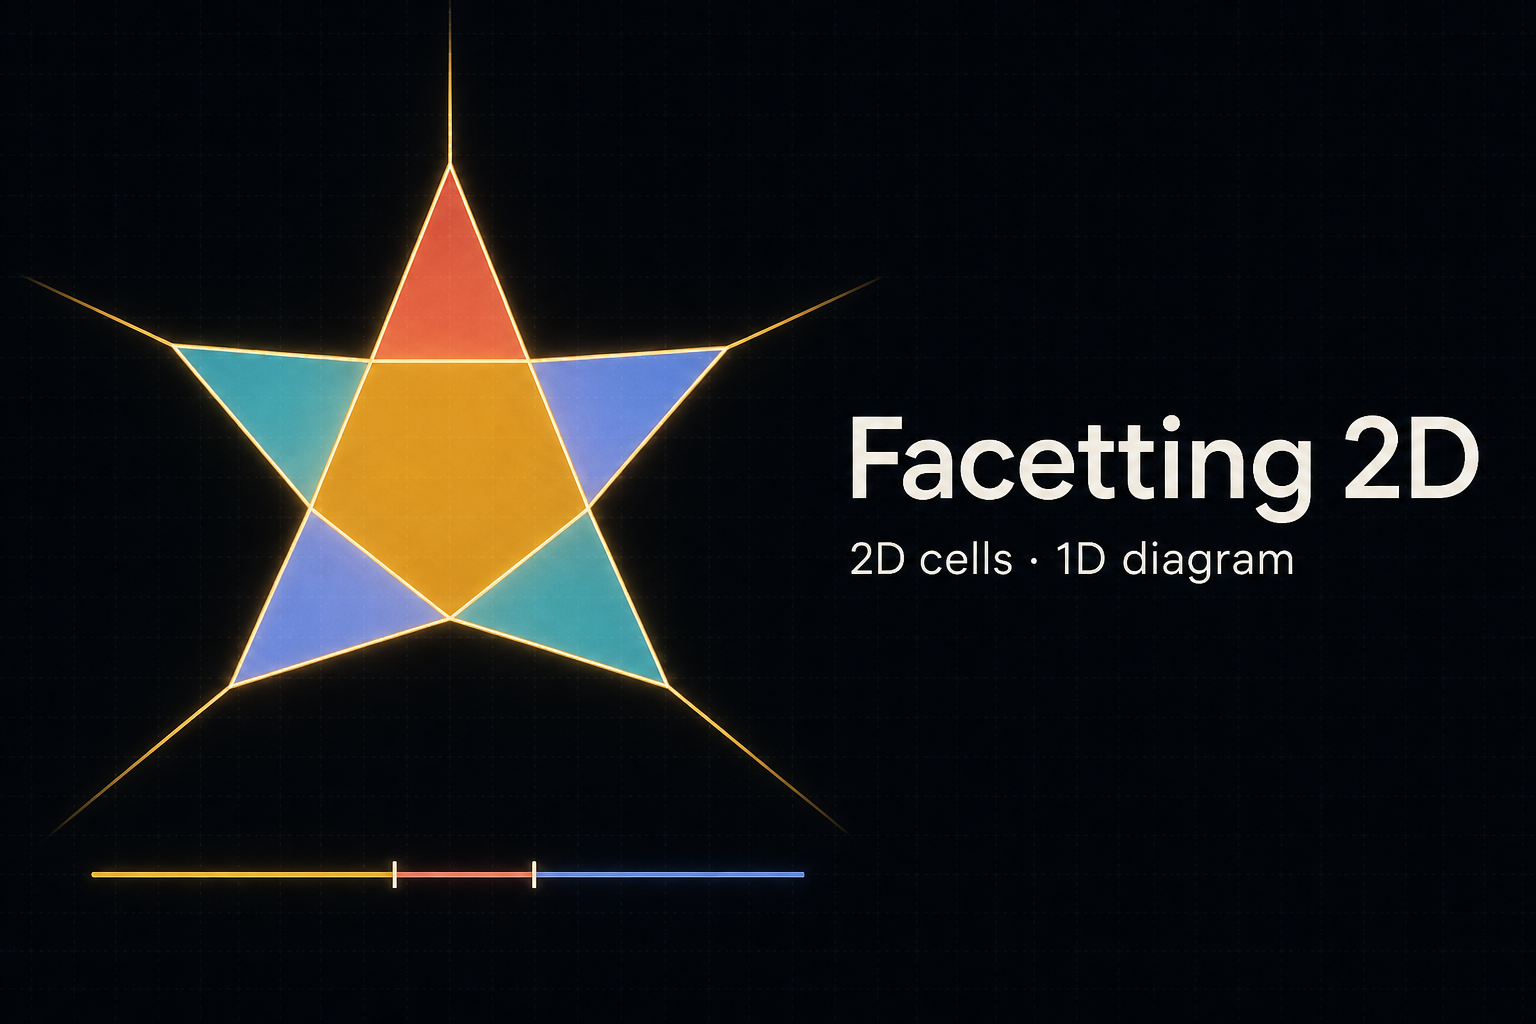
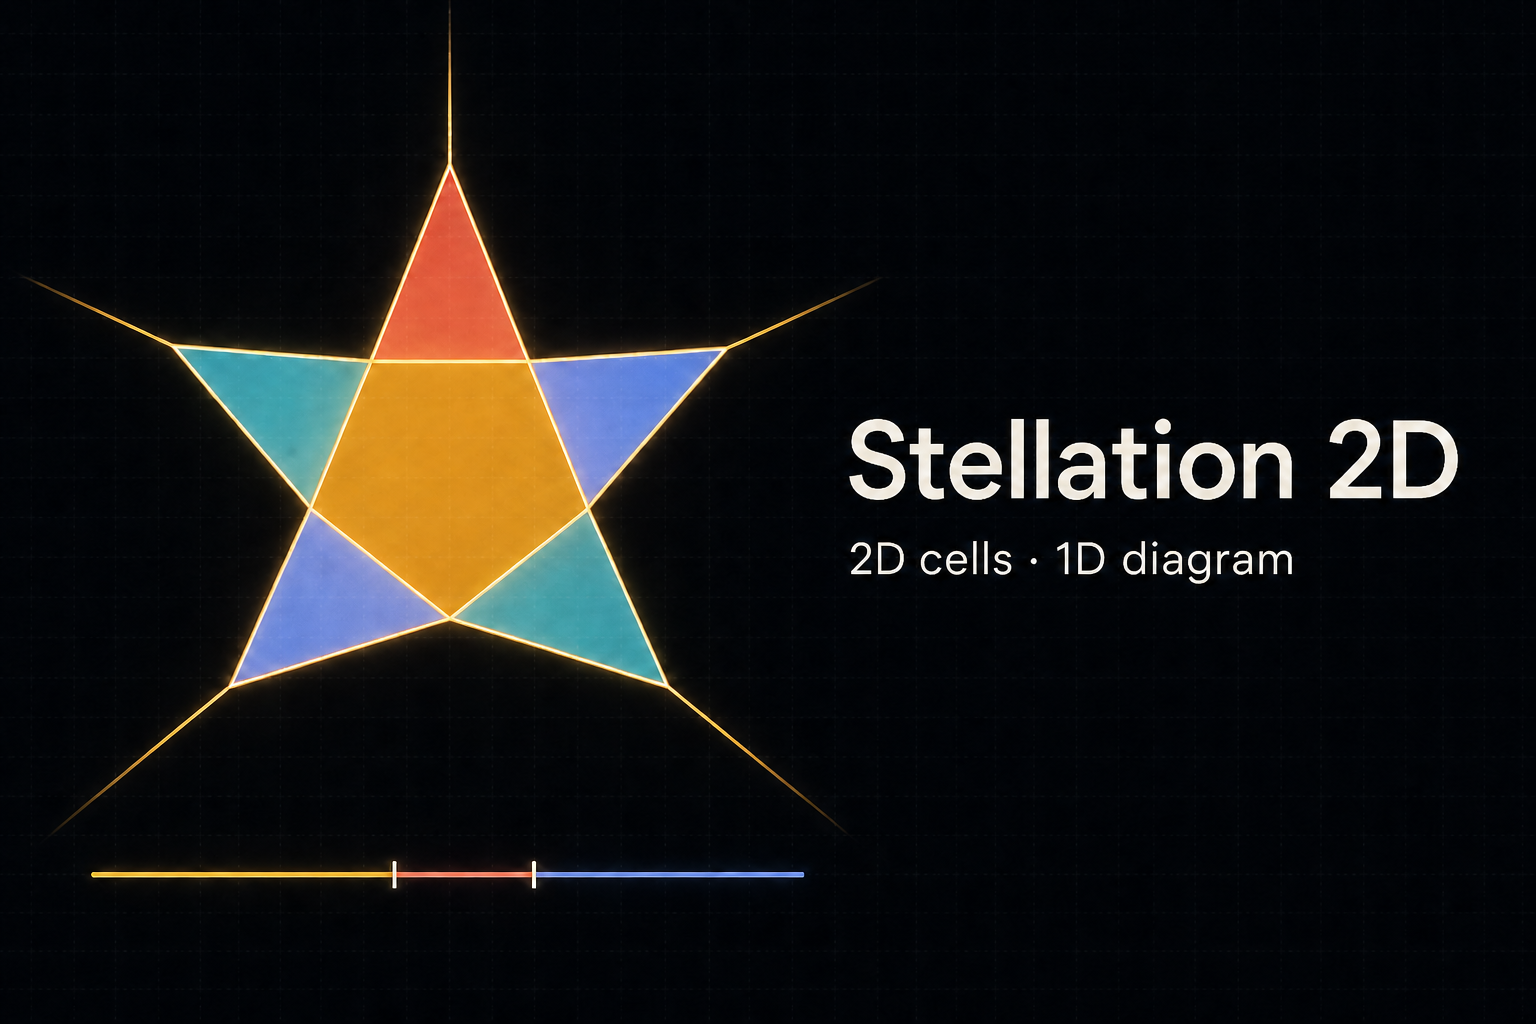
Reframe app as Stellation 2D

diff --git a/app/StellationLab.tsx b/app/StellationLab.tsx
@@ -102,7 +102,7 @@ function buildInvariantSet(
   return result;
 }
 
-export default function FacettingLab() {
+export default function StellationLab() {
   const [sides, setSides] = useState(5);
   const [symmetry, setSymmetry] = useState<Symmetry>({ family: "D", order: 5 });
   const arrangement = useMemo(() => buildArrangement(sides), [sides]);
@@ -431,11 +431,11 @@ export default function FacettingLab() {
   const diagramStroke = diagramSpan / 480;
 
   return (
-    <div className="facetting-app">
+    <div className="stellation-app">
       <header className="app-header">
-        <div className="brand" aria-label="Facetting 2D">
+        <div className="brand" aria-label="Stellation 2D">
           <span className="brand-mark">◇</span>
-          <span>Facetting</span>
+          <span>Stellation</span>
           <b>2D</b>
         </div>
         <div className="header-stats" aria-label="Current arrangement statistics">
@@ -459,12 +459,12 @@ export default function FacettingLab() {
       </header>
 
       <main className="app-main">
-        <section className="stage" aria-label="Facetting views">
+        <section className="stage" aria-label="Stellation views">
           <div className="view-panel spatial-panel">
             <div className="view-heading">
               <div>
                 <span className="eyebrow">2D view</span>
-                <h1>Extended sides, bounded cells</h1>
+                <h1>Supporting lines, stellation cells</h1>
               </div>
               <div className="view-actions">
                 <button type="button" onClick={() => setView({ x: 0, y: 0, zoom: 1 })}>fit</button>
@@ -694,7 +694,7 @@ export default function FacettingLab() {
           </div>
         </section>
 
-        <aside className="control-panel" aria-label="Facetting controls">
+        <aside className="control-panel" aria-label="Stellation controls">
           <section className="control-section setup-section">
             <div className="section-title">
               <span className="eyebrow">Construction</span>
@@ -727,7 +727,7 @@ export default function FacettingLab() {
               </select>
             </label>
             <p className="section-note">
-              Every side is extended to a line. Only bounded regions remain; symmetry groups them into selectable orbits.
+              Extending every side creates the polygon&apos;s stellation arrangement. Its bounded cells are grouped into selectable symmetry orbits.
             </p>
           </section>
 
@@ -807,7 +807,7 @@ export default function FacettingLab() {
 
           <section className="control-section explainer-section">
             <div className="section-title">
-              <span className="eyebrow">Dimensional analogy</span>
+              <span className="eyebrow">Stellation correspondence</span>
               <span className="section-index">03</span>
             </div>
             <div className="analogy-grid">
@@ -816,7 +816,7 @@ export default function FacettingLab() {
               <span>2D diagram</span><b>→</b><span>1D segmented line</span>
             </div>
             <p className="section-note">
-              Facetting a polygon here is the planar dual view of stellating a polyhedron: the same supporting lines, followed farther.
+              This is the original stellation construction reduced by one dimension: supporting lines continue beyond the core polygon and bound selectable stellation cells.
             </p>
           </section>
         </aside>

diff --git a/app/layout.tsx b/app/layout.tsx
@@ -3,18 +3,18 @@ import "./globals.css";
 
 export const metadata: Metadata = {
   metadataBase: new URL("https://yaroslavvb.github.io/stellation-2d/"),
-  title: "Facetting 2D — Interactive polygon cell explorer",
+  title: "Stellation 2D — Interactive polygon stellation explorer",
   description:
-    "Extend a regular polygon's sides, explore the bounded cells they form, and see the exact one-dimensional diagram beneath the construction.",
-  applicationName: "Facetting 2D",
+    "Extend a regular polygon's sides, assemble stellations from the bounded cells they form, and explore the exact one-dimensional diagram beneath the construction.",
+  applicationName: "Stellation 2D",
   authors: [{ name: "Yaroslav Bulatov" }],
   icons: {
     icon: "./favicon.svg",
     shortcut: "./favicon.svg",
   },
   openGraph: {
-    title: "Facetting 2D",
-    description: "A dimensional analogue of the stellation app: 2D cells with a 1D diagram.",
+    title: "Stellation 2D",
+    description: "The stellation app reduced by one dimension: 2D cells with a linked 1D diagram.",
     type: "website",
     url: "https://yaroslavvb.github.io/stellation-2d/",
     images: [
@@ -22,14 +22,14 @@ export const metadata: Metadata = {
         url: "https://yaroslavvb.github.io/stellation-2d/og.png",
         width: 1536,
         height: 1024,
-        alt: "Facetting 2D pentagon line arrangement and one-dimensional diagram",
+        alt: "Stellation 2D pentagon line arrangement and one-dimensional diagram",
       },
     ],
   },
   twitter: {
     card: "summary_large_image",
-    title: "Facetting 2D",
-    description: "Explore planar facetting through linked 2D and 1D views.",
+    title: "Stellation 2D",
+    description: "Explore polygon stellations through linked 2D and 1D views.",
     images: ["https://yaroslavvb.github.io/stellation-2d/og.png"],
   },
 };

diff --git a/app/globals.css b/app/globals.css
@@ -73,7 +73,7 @@ kbd {
   white-space: nowrap;
 }
 
-.facetting-app {
+.stellation-app {
   min-height: 100dvh;
   display: flex;
   flex-direction: column;
@@ -753,7 +753,7 @@ kbd {
 }
 
 @media (max-width: 820px) {
-  .facetting-app { min-height: auto; }
+  .stellation-app { min-height: auto; }
   .app-header { position: sticky; top: 0; z-index: 20; gap: 9px; }
   .header-stats { display: none; }
   .about-link { display: none; }
@@ -783,4 +783,3 @@ kbd {
     transition-duration: 0.01ms !important;
   }
 }
-

diff --git a/app/page.tsx b/app/page.tsx
@@ -1,5 +1,5 @@
-import FacettingLab from "./FacettingLab";
+import StellationLab from "./StellationLab";
 
 export default function Home() {
-  return <FacettingLab />;
+  return <StellationLab />;
 }

diff --git a/README.md b/README.md
@@ -1,6 +1,6 @@
-# Facetting 2D
+# Stellation 2D
 
-An interactive dimensional analogue of Vladimir Bulatov's stellation app.
+An interactive, one-dimension-lower counterpart to Vladimir Bulatov's stellation app.
 
 - A regular polygon's sides are extended to infinite lines.
 - The resulting bounded planar cells are grouped into cyclic or dihedral symmetry orbits.
@@ -29,7 +29,7 @@ npm run build:pages
 
 This project reduces the original app by one dimension:
 
-| Original stellation app | Facetting 2D |
+| Original stellation app | Stellation 2D |
 | --- | --- |
 | polyhedron faces | polygon sides |
 | planes in 3D | lines in 2D |
